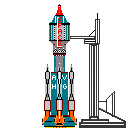
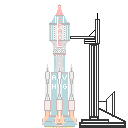
Added new textures. Polishing the game....

Changed region(s): [[0.3125, 0.0312, 0.625, 1.0]]

diff --git a/core/src/ldjam48/game/node/NodeTilemap.java b/core/src/ldjam48/game/node/NodeTilemap.java
@@ -40,6 +40,13 @@ public class NodeTilemap extends Node {
                 }
                 else if(i > height-25)
                 {
+                    if(i == height-24) {
+                        if(Math.random() > 0.5f) {
+                            setTileByPosition(j, i, BlockType.Stone.getBlockId());
+                            continue;
+                        }
+                    }
+
                     setTileByPosition(j, i, BlockType.Sandstone.getBlockId());
 
                     int r = MainGameScreen.getInstance().random.nextInt(100);
@@ -55,6 +62,20 @@ public class NodeTilemap extends Node {
                 }
                 else if(i <= height-25 && i > height-50)
                 {
+                    if(i == height-25) {
+                        if(Math.random() > 0.9f) {
+                            setTileByPosition(j, i, BlockType.Sandstone.getBlockId());
+                            continue;
+                        }
+                    }
+
+                    if(i == height-49) {
+                        if(Math.random() > 0.5f) {
+                            setTileByPosition(j, i, BlockType.Blackstone.getBlockId());
+                            continue;
+                        }
+                    }
+
                     setTileByPosition(j, i, BlockType.Stone.getBlockId());
 
                     int r = MainGameScreen.getInstance().random.nextInt(100);
@@ -79,6 +100,20 @@ public class NodeTilemap extends Node {
                 }
                 else if(i <= height-50 && i > height-100)
                 {
+                    if(i == height-50) {
+                        if(Math.random() > 0.9f) {
+                            setTileByPosition(j, i, BlockType.Stone.getBlockId());
+                            continue;
+                        }
+                    }
+
+                    if(i == height-99) {
+                        if(Math.random() > 0.5f) {
+                            setTileByPosition(j, i, BlockType.LavaBlackstone.getBlockId());
+                            continue;
+                        }
+                    }
+
                     setTileByPosition(j, i, BlockType.Blackstone.getBlockId());
 
                     int r = MainGameScreen.getInstance().random.nextInt(1000);
@@ -90,6 +125,13 @@ public class NodeTilemap extends Node {
                 }
                 else if(i <= height-100)
                 {
+                    if(i == height-100) {
+                        if(Math.random() > 0.9f) {
+                            setTileByPosition(j, i, BlockType.Blackstone.getBlockId());
+                            continue;
+                        }
+                    }
+
                     int r = MainGameScreen.getInstance().random.nextInt(100);
                     //int r2 = MainGameScreen.getInstance().random.nextInt(3);
 
@@ -117,6 +159,10 @@ public class NodeTilemap extends Node {
                 arrayMapBackground[i] = BlockType.Stone.getBlockId();
             if(arrayMapBackground[i] == BlockType.Diamond_Ore.getBlockId())
                 arrayMapBackground[i] = BlockType.Blackstone.getBlockId();
+            if(arrayMapBackground[i] == BlockType.MagmaBlock.getBlockId())
+                arrayMapBackground[i] = BlockType.LavaBlackstone.getBlockId();
+            if(arrayMapBackground[i] == BlockType.Coal_Ore.getBlockId())
+                arrayMapBackground[i] = BlockType.Stone.getBlockId();
         }
     }
 

diff --git a/core/src/ldjam48/game/node/drill/NodePlayer.java b/core/src/ldjam48/game/node/drill/NodePlayer.java
@@ -7,6 +7,7 @@ import com.badlogic.gdx.graphics.g2d.*;
 import com.badlogic.gdx.math.Rectangle;
 import com.badlogic.gdx.math.Vector2;
 import ldjam48.game.Game;
+import ldjam48.game.SoundManager;
 import ldjam48.game.TextureManager;
 import ldjam48.game.blocks.BlockType;
 import ldjam48.game.gui.base.*;
@@ -124,6 +125,13 @@ public class NodePlayer extends NodeSprite {
     int sprite = 0;
     @Override
     public void update(SpriteBatch batch, float delta) {
+        if(CoalStatus.coalLevel <= 0)
+        {
+            MainGameScreen.getInstance().getGame().setScreen(new MainEndScene());
+            //GameOver.hidden = false;
+            return;
+        }
+
         if(current + 400 + delta >= System.currentTimeMillis())
         {
 
@@ -171,7 +179,10 @@ public class NodePlayer extends NodeSprite {
         {
             if(Gdx.input.isKeyPressed(Input.Keys.A) && position.x > 0 && !isAnimationRunning()) {
                 int blockId = nodeTilemap.getTileByGlobalPosition(new Vector2(position.x - 32, position.y));
-                if(!(BlockType.values()[blockId].getBlockMeta().getHardness() <= drillLevel)) return;
+                if(!(BlockType.values()[blockId].getBlockMeta().getHardness() <= drillLevel)) {
+                    MainGameScreen.upgradeDrill = true;
+                    return;
+                }
 
                 position.x -= 32;
 
@@ -185,7 +196,10 @@ public class NodePlayer extends NodeSprite {
             }
             else if(Gdx.input.isKeyPressed(Input.Keys.D) && position.x < (nodeTilemap.width-1) * nodeTilemap.tileSize && animationRight <= 0 && !isAnimationRunning()) {
                 int blockId = nodeTilemap.getTileByGlobalPosition(new Vector2(position.x + 32, position.y));
-                if(!(BlockType.values()[blockId].getBlockMeta().getHardness() <= drillLevel)) return;
+                if(!(BlockType.values()[blockId].getBlockMeta().getHardness() <= drillLevel)) {
+                    MainGameScreen.upgradeDrill = true;
+                    return;
+                }
 
                 position.x += 32;
                 drillSprite2.setFlip(false, false);
@@ -216,8 +230,10 @@ public class NodePlayer extends NodeSprite {
             }
             else if(Gdx.input.isKeyPressed(Input.Keys.W) && animationUp <= 0 && !Gdx.input.isKeyPressed(Input.Keys.A) && !Gdx.input.isKeyPressed(Input.Keys.D) && !isAnimationRunning()) {
                 int blockId = nodeTilemap.getTileByGlobalPosition(new Vector2(position.x, position.y + 32));
-                if(!(BlockType.values()[blockId].getBlockMeta().getHardness() <= drillLevel)) return;
-
+                if(!(BlockType.values()[blockId].getBlockMeta().getHardness() <= drillLevel)) {
+                    MainGameScreen.upgradeDrill = true;
+                    return;
+                }
                 if(position.y >= 192) return;
 
                 position.y += 32;
@@ -389,6 +405,17 @@ public class NodePlayer extends NodeSprite {
             return;
         else if(blockId == BlockType.Bedrock.getBlockId())
             return;
+
+        if(Math.random() >= 0.7f) {
+            SoundManager.sound.play(0.5f);
+        }
+        else if(Math.random() >= 0.4f) {
+            SoundManager.sound2.play(0.5f);
+        }
+        else {
+            SoundManager.sound3.play(0.5f);
+        }
+
         if(CoalStatus.coalLevel <= 0)
         {
             MainGameScreen.getInstance().getGame().setScreen(new MainEndScene());

diff --git a/core/src/ldjam48/game/gui/base/BaseUpgradeMenu.java b/core/src/ldjam48/game/gui/base/BaseUpgradeMenu.java
@@ -28,19 +28,19 @@ public class BaseUpgradeMenu extends Gui {
     public BaseUpgradeMenu() {
         super("Upgrade Garage");
 
-        slot1 = new SlotNamed(0, "Irons (8x)");
+        slot1 = new SlotNamed(0, "Iron Ingot (8x)");
         slot1.position.x = 100;
         slot1.position.y = 300;
         addNode(slot1);
 
         if(NodePlayer.drillLevel == 1) {
             item = BlockType.IronIngot.getBlockId();
-            slot1.name = "Iron (16x)";
+            slot1.name = "Iron Ingot (16x)";
         }
         else if(NodePlayer.drillLevel == 2) {
             item = BlockType.Gold.getBlockId();
 
-            slot1.name = "Gold (16x)";
+            slot1.name = "Gold Ingot (16x)";
         }
         else if(NodePlayer.drillLevel == 3) {
             item = BlockType.Diamond.getBlockId();
@@ -64,12 +64,12 @@ public class BaseUpgradeMenu extends Gui {
 
                 if(NodePlayer.drillLevel == 1) {
                     item = BlockType.IronIngot.getBlockId();
-                    slot1.name = "Iron (16x)";
+                    slot1.name = "Iron Ingot (16x)";
                 }
                 else if(NodePlayer.drillLevel == 2) {
                     item = BlockType.GoldIngot.getBlockId();
 
-                    slot1.name = "Gold (16x)";
+                    slot1.name = "Gold Ingot (16x)";
                 }
                 else if(NodePlayer.drillLevel == 3) {
                     item = BlockType.Diamond.getBlockId();
@@ -104,7 +104,7 @@ public class BaseUpgradeMenu extends Gui {
         upgradeFuelStorage.position.y = Gdx.graphics.getHeight() / 2 - 30;
         addNode(upgradeFuelStorage);
 
-        slot2 = new SlotNamed(1, "Irons (5x)");
+        slot2 = new SlotNamed(1, "Iron Ingot (5x)");
         slot2.position.x = Gdx.graphics.getWidth() / 2 - 220;
         slot2.position.y = Gdx.graphics.getHeight() / 2 - 15;
         addNode(slot2);

diff --git a/core/src/ldjam48/game/screens/MainEndScene.java b/core/src/ldjam48/game/screens/MainEndScene.java
@@ -1,11 +1,13 @@
 package ldjam48.game.screens;
 
 import com.badlogic.gdx.Gdx;
+import com.badlogic.gdx.Input;
 import com.badlogic.gdx.Screen;
 import com.badlogic.gdx.graphics.Color;
 import com.badlogic.gdx.graphics.g2d.BitmapFont;
 import com.badlogic.gdx.graphics.g2d.GlyphLayout;
 import com.badlogic.gdx.graphics.g2d.SpriteBatch;
+import com.badlogic.gdx.graphics.g3d.shaders.DefaultShader;
 import com.badlogic.gdx.graphics.glutils.ShapeRenderer;
 import ldjam48.game.node.NodeTimer;
 
@@ -38,11 +40,6 @@ public class MainEndScene implements Screen {
         font.draw(batch, "Blocks Mined: " + (int)MainGameScreen.statistics.get("blocks_mined"), Gdx.graphics.getWidth()/2 - glyphLayout.width/2, Gdx.graphics.getHeight()/2 + 150);
         glyphLayout.setText(font, "Finished in: " + (String)MainGameScreen.statistics.get("time"));
         font.draw(batch, "Finished in:" + (String)MainGameScreen.statistics.get("time"), Gdx.graphics.getWidth()/2 - glyphLayout.width/2, Gdx.graphics.getHeight()/2 + 200);
-
-
-
-
-
 
         batch.end();
     }

diff --git a/core/src/ldjam48/game/gui/base/RocketMenu.java b/core/src/ldjam48/game/gui/base/RocketMenu.java
@@ -130,7 +130,7 @@ public class RocketMenu extends Gui {
             if(slot1.getItemInSlot().getBlockType().getBlockId() == BlockType.MechanicalPart.getBlockId() && slot2.getItemInSlot().getBlockType().getBlockId() == BlockType.MetalParts.getBlockId() && slot3.getItemInSlot().getBlockType().getBlockId() == BlockType.MagmaIngot.getBlockId()) {
                 NodeRocketBase nodeRocketBase = (NodeRocketBase) MainGameScreen.getInstance().scene.findNode("Node Rocket Base");
                 //MainGameScreen.getInstance().getGame().setScreen(new MainEndScene());
-                nodeRocketBase.sprite = new Sprite(TextureManager.rocket_ramp2);
+                nodeRocketBase.sprite = new Sprite(TextureManager.rocket_ramp3);
                 assembled = true;
             }
         }

diff --git a/core/src/ldjam48/game/gui/base/BaseMenu.java b/core/src/ldjam48/game/gui/base/BaseMenu.java
@@ -9,6 +9,7 @@ import com.badlogic.gdx.math.Vector2;
 import ldjam48.game.TextureManager;
 import ldjam48.game.blocks.BlockType;
 import ldjam48.game.gui.Gui;
+import ldjam48.game.gui.components.BackgroundSlot;
 import ldjam48.game.gui.components.Button;
 import ldjam48.game.gui.components.ButtonEvent;
 import ldjam48.game.gui.statusbars.CoalStatus;
@@ -23,7 +24,7 @@ public class BaseMenu extends Gui {
 
         int x = 100;
         int y = Gdx.graphics.getHeight() / 2;
-        final SlotNamed baseSlot = new SlotNamed(1,"Coal(5x)");
+        final BackgroundSlot baseSlot = new BackgroundSlot("AAA",TextureManager.coal, 5);
         baseSlot.position = new Vector2(110, 290);
 
         fuelButton = new Button("Fuel", "Add Fuel", 128, 64, new ButtonEvent() {

diff --git a/core/src/ldjam48/game/gui/statusbars/CoalStatus.java b/core/src/ldjam48/game/gui/statusbars/CoalStatus.java
@@ -26,8 +26,13 @@ public class CoalStatus extends Gui {
         batch.draw(TextureManager.blankWhite,0+20, Gdx.graphics.getHeight()-40, 104, 22);
         batch.setColor(Color.WHITE);
         int percents =100 - ((maxCoalLevel- coalLevel) * 100)/maxCoalLevel;
+        if(coalLevel <= 100) {
+            batch.setColor(Color.RED);
+        }
         batch.draw(TextureManager.blankWhite,0+22, Gdx.graphics.getHeight()-38, percents, 18);
-
+        batch.setColor(Color.WHITE);    
+        batch.setColor(Color.WHITE);    
+        
         GlyphLayout glyphLayout = new GlyphLayout();
         glyphLayout.setText(font, coalLevel + "/" +maxCoalLevel);
         font.setColor(Color.BLACK);

diff --git a/core/src/ldjam48/game/node/NodeTimer.java b/core/src/ldjam48/game/node/NodeTimer.java
@@ -1,6 +1,7 @@
 package ldjam48.game.node;
 
 import com.badlogic.gdx.Gdx;
+import com.badlogic.gdx.graphics.Color;
 import com.badlogic.gdx.graphics.g2d.BitmapFont;
 import com.badlogic.gdx.graphics.g2d.SpriteBatch;
 import com.badlogic.gdx.math.Vector2;
@@ -48,6 +49,10 @@ public class NodeTimer extends Node {
 
 
         MainGameScreen.statistics.put("time", milliesToText(startMillies));
+
+        if(endMillies - startMillies <= 1000*60) {
+            font.setColor(Color.RED);
+        }
         font.draw(batch, "Time left:" +milliesToText(endMillies - startMillies), 21, Gdx.graphics.getHeight()-73);
     }
     Date date;

diff --git a/core/src/ldjam48/game/gui/trashbin/TrashSlot.java b/core/src/ldjam48/game/gui/trashbin/TrashSlot.java
@@ -3,12 +3,14 @@ package ldjam48.game.gui.trashbin;
 import com.badlogic.gdx.graphics.Color;
 import com.badlogic.gdx.graphics.Texture;
 import com.badlogic.gdx.graphics.g2d.SpriteBatch;
+import ldjam48.game.TextureManager;
+import ldjam48.game.gui.components.BackgroundSlot;
 import ldjam48.game.gui.components.Slot;
 import ldjam48.game.gui.inventory.Inventory;
 
-public class TrashSlot extends Slot {
+public class TrashSlot extends BackgroundSlot {
     public TrashSlot(String slotId, Texture slotTexture) {
-        super(slotId, slotTexture);
+        super(slotId, TextureManager.trashbin, 0);
     }
 
     @Override

diff --git a/core/src/ldjam48/game/screens/MainMenuScreen.java b/core/src/ldjam48/game/screens/MainMenuScreen.java
@@ -44,7 +44,9 @@ public class MainMenuScreen implements Screen {
 
         for(int i = 0; i < options.length; i++) {
             if(i == selection) {
+                font.setColor(Color.YELLOW);
                 font.draw(batch, "< "+ options[options.length - i - 1] + " >", Gdx.graphics.getWidth() / 2 - 30, Gdx.graphics.getHeight() / 2 + (i * 32));
+                font.setColor(Color.WHITE);
             }
             else {
                 font.draw(batch, options[options.length - i - 1], Gdx.graphics.getWidth() / 2 - 25, Gdx.graphics.getHeight() / 2 + (i * 32));

diff --git a/core/src/ldjam48/game/TextureManager.java b/core/src/ldjam48/game/TextureManager.java
@@ -36,6 +36,8 @@ public class TextureManager {
     public static final Texture rocket_ramp = new Texture("ramap_01.png");
     public static final Texture rocket_ramp2 = new Texture("raketa_rampa01.png");
     public static final Texture rocket = new Texture("raketa01.png");
+    public static final Texture trashbin = new Texture("trash_bin.png");
+    public static final Texture rocket_ramp3 = new Texture("raketa_rampa02.png");
 
     public static final Texture drills = new Texture("drills.png");
 

diff --git a/core/src/ldjam48/game/SoundManager.java b/core/src/ldjam48/game/SoundManager.java
@@ -1,0 +1,10 @@
+package ldjam48.game;
+
+import com.badlogic.gdx.Gdx;
+import com.badlogic.gdx.audio.Sound;
+
+public class SoundManager {
+    public static final Sound sound = Gdx.audio.newSound(Gdx.files.internal("BreakSound1.wav"));
+    public static final Sound sound2 = Gdx.audio.newSound(Gdx.files.internal("BreakSound2.wav"));
+    public static final Sound sound3 = Gdx.audio.newSound(Gdx.files.internal("Explosion70.wav"));
+}
